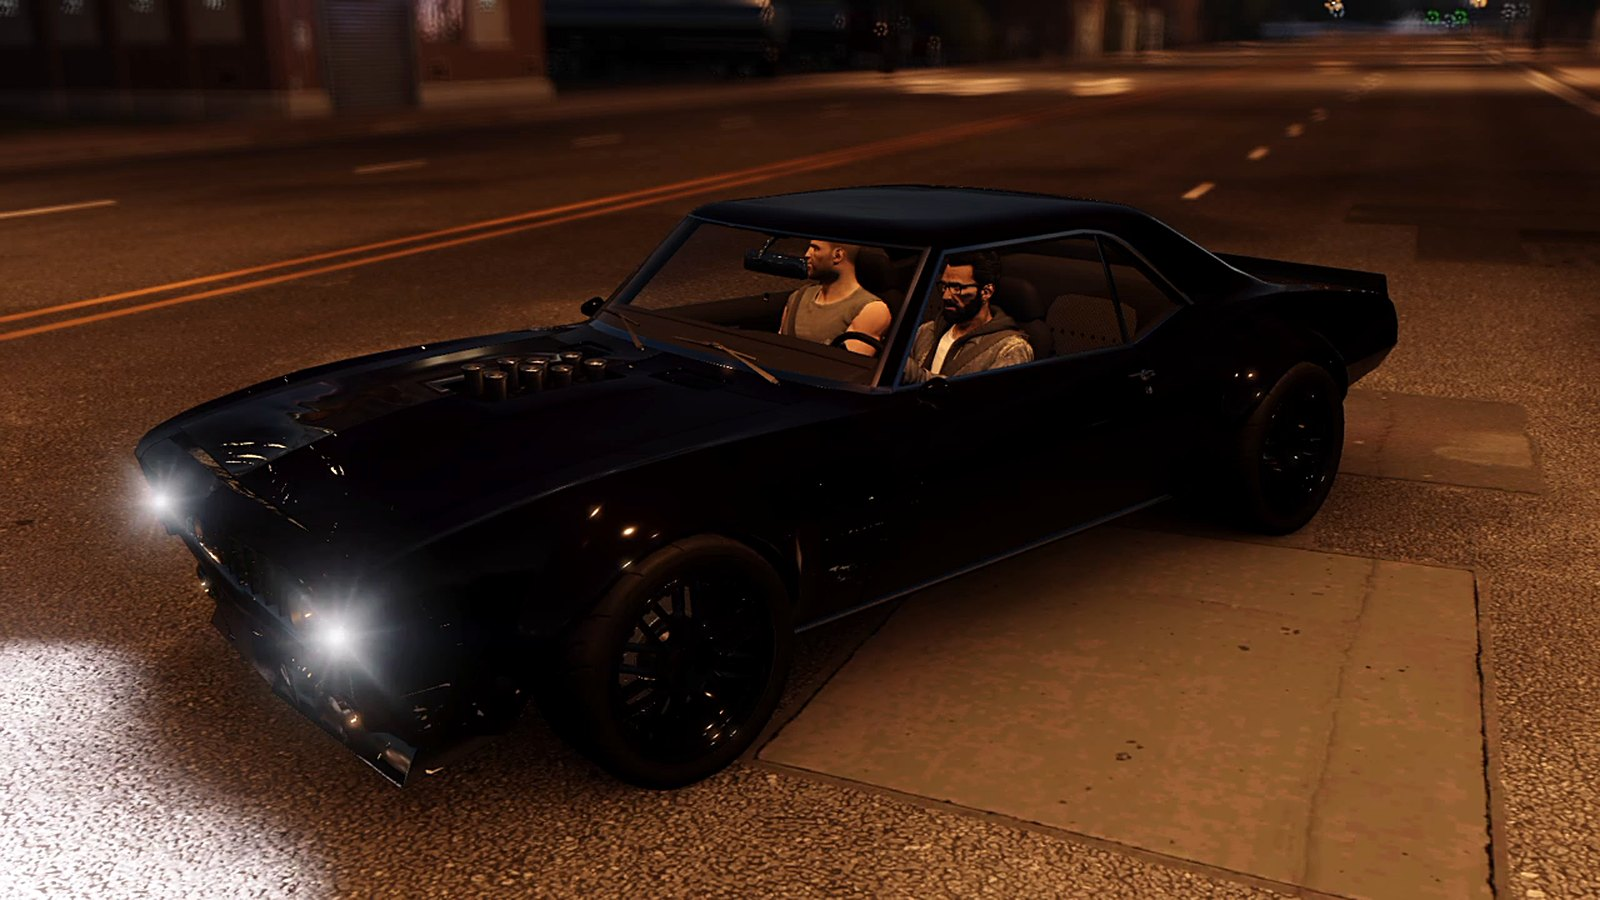
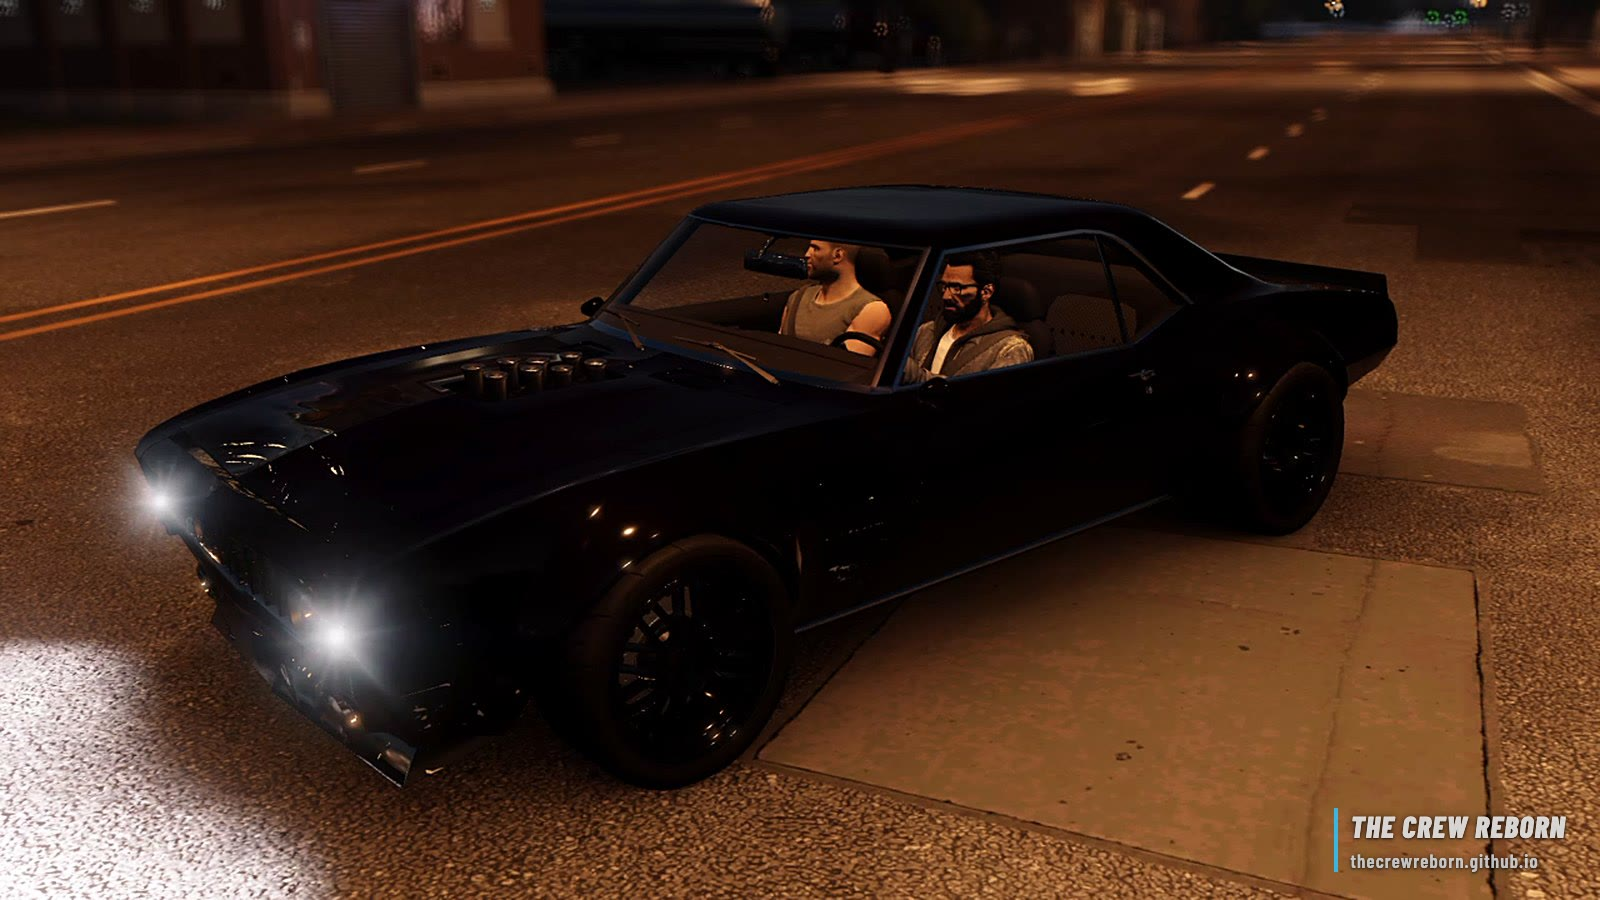
Screenshots: five new shots from the 1.00 prologue, a small site watermark on every shot, arrows, arrow keys and swipe in the enlarged view

Changed region(s): [[0.8125, 0.9022, 1.0, 0.9644]]

diff --git a/assets/content.js b/assets/content.js
@@ -37,17 +37,22 @@ window.CONTENT = {
   ],
   // Screenshots live in assets/shots/ (stills from the project's own PS4 recordings). The first one is shown large.
   screenshots: [
-    { src: "assets/shots/golden-raptor.jpg", en: "Golden hour in the Midwest", de: "Goldene Stunde im Mittleren Westen" },
-    { src: "assets/shots/radar-view.jpg", en: "The view from a satellite radar at night", de: "Nachts der Blick von einem Satellitenradar" },
-    { src: "assets/shots/camaro-st-louis.jpg", en: "A Camaro in St. Louis", de: "Ein Camaro in St. Louis" },
-    { src: "assets/shots/garage-taillights.jpg", en: "Tail lights in a Detroit garage", de: "Rücklichter in einer Garage in Detroit" },
-    { src: "assets/shots/detroit-dusk.jpg", en: "Detroit at dusk", de: "Detroit in der Abenddämmerung" },
-    { src: "assets/shots/night-meet.jpg", en: "A night meet in Detroit", de: "Nächtliches Treffen in Detroit" },
-    { src: "assets/shots/muscle-car-night.jpg", en: "Muscle car under the street lights", de: "Muscle Car unter Straßenlaternen" },
-    { src: "assets/shots/offroad-field.jpg", en: "Off-road across the fields", de: "Offroad über die Felder" },
-    { src: "assets/shots/camaro-garage.jpg", en: "A Camaro SS at the tuner", de: "Ein Camaro SS beim Tuner" },
-    { src: "assets/shots/fields-sunset.jpg", en: "Evening on the outskirts of Detroit", de: "Abendstimmung am Stadtrand von Detroit" },
-    { src: "assets/shots/backstreet.jpg", en: "Back streets of Detroit", de: "In Detroits Seitenstraßen" },
-    { src: "assets/shots/workshop.jpg", en: "In the workshop", de: "In der Werkstatt" },
+    { src: "assets/shots/golden-raptor.jpg?v=2", en: "Golden hour in the Midwest", de: "Goldene Stunde im Mittleren Westen" },
+    { src: "assets/shots/detroit-searchlights.jpg?v=2", en: "Searchlights over Detroit at night", de: "Suchscheinwerfer über Detroit bei Nacht" },
+    { src: "assets/shots/radar-view.jpg?v=2", en: "The view from a satellite radar at night", de: "Nachts der Blick von einem Satellitenradar" },
+    { src: "assets/shots/camaro-st-louis.jpg?v=2", en: "A Camaro in St. Louis", de: "Ein Camaro in St. Louis" },
+    { src: "assets/shots/mustang-gt.jpg?v=2", en: "The Ford Mustang GT from the dealer", de: "Der Ford Mustang GT vom Autohändler" },
+    { src: "assets/shots/garage-taillights.jpg?v=2", en: "Tail lights in a Detroit garage", de: "Rücklichter in einer Garage in Detroit" },
+    { src: "assets/shots/detroit-dusk.jpg?v=2", en: "Detroit at dusk", de: "Detroit in der Abenddämmerung" },
+    { src: "assets/shots/dormer-drills.jpg?v=2", en: "An old factory in Detroit at dusk", de: "Eine alte Fabrik in Detroit in der Abenddämmerung" },
+    { src: "assets/shots/night-meet.jpg?v=2", en: "A night meet in Detroit", de: "Nächtliches Treffen in Detroit" },
+    { src: "assets/shots/muscle-car-night.jpg?v=2", en: "Muscle car under the street lights", de: "Muscle Car unter Straßenlaternen" },
+    { src: "assets/shots/muscle-car-dusk.jpg?v=2", en: "Muscle car at dusk", de: "Muscle Car in der Abenddämmerung" },
+    { src: "assets/shots/offroad-field.jpg?v=2", en: "Off-road across the fields", de: "Offroad über die Felder" },
+    { src: "assets/shots/muscle-car-low.jpg?v=2", en: "Low over the asphalt", de: "Dicht über dem Asphalt" },
+    { src: "assets/shots/camaro-garage.jpg?v=2", en: "A Camaro SS at the tuner", de: "Ein Camaro SS beim Tuner" },
+    { src: "assets/shots/fields-sunset.jpg?v=2", en: "Evening on the outskirts of Detroit", de: "Abendstimmung am Stadtrand von Detroit" },
+    { src: "assets/shots/backstreet.jpg?v=2", en: "Back streets of Detroit", de: "In Detroits Seitenstraßen" },
+    { src: "assets/shots/workshop.jpg?v=2", en: "In the workshop", de: "In der Werkstatt" },
   ],
 };

diff --git a/assets/site.js b/assets/site.js
@@ -347,23 +347,50 @@
     renderDownloads();
   }).catch(() => {});
 
+  // Lightbox: arrows, arrow keys and a swipe step through the screenshots, wrapping around at both ends
   const lb = document.getElementById("lightbox");
-  function openShot(s) {
+  let shot = 0;
+  function showShot(i) {
+    const n = C.screenshots.length;
+    shot = (i + n) % n;
+    const s = C.screenshots[shot];
     document.getElementById("lbImg").src = s.src;
     document.getElementById("lbImg").alt = s[lang] || s.en;
     document.getElementById("lbCap").textContent = s[lang] || s.en;
+    document.getElementById("lbCount").textContent = (shot + 1) + " / " + n;
+    [shot - 1, shot + 1].forEach((k) => { new Image().src = C.screenshots[(k + n) % n].src; });
+  }
+  function openShot(i) {
+    showShot(i);
     lb.hidden = false;
-    document.getElementById("lbClose").focus();
+    document.getElementById("lbNext").focus();
   }
   function closeShot() { lb.hidden = true; }
-  lb.addEventListener("click", (e) => { if (e.target === lb || e.target.id === "lbClose") closeShot(); });
-  document.addEventListener("keydown", (e) => { if (e.key === "Escape" && !lb.hidden) closeShot(); });
+  lb.addEventListener("click", (e) => {
+    if (e.target.id === "lbPrev") showShot(shot - 1);
+    else if (e.target.id === "lbNext") showShot(shot + 1);
+    else if (e.target === lb || e.target.id === "lbClose") closeShot();
+  });
+  document.addEventListener("keydown", (e) => {
+    if (lb.hidden) return;
+    if (e.key === "Escape") closeShot();
+    else if (e.key === "ArrowLeft") showShot(shot - 1);
+    else if (e.key === "ArrowRight") showShot(shot + 1);
+  });
+  let touchX = null;
+  lb.addEventListener("touchstart", (e) => { touchX = e.touches.length === 1 ? e.touches[0].clientX : null; }, { passive: true });
+  lb.addEventListener("touchend", (e) => {
+    if (touchX === null) return;
+    const dx = e.changedTouches[0].clientX - touchX;
+    touchX = null;
+    if (Math.abs(dx) > 50) showShot(dx < 0 ? shot + 1 : shot - 1);
+  });
 
   function renderGallery() {
     const g = document.getElementById("gallery");
     g.replaceChildren();
     document.getElementById("shots").hidden = C.screenshots.length === 0;
-    C.screenshots.forEach((s) => {
+    C.screenshots.forEach((s, i) => {
       const b = document.createElement("button");
       b.type = "button";
       b.className = "shot";
@@ -374,7 +401,7 @@
       const cap = document.createElement("span");
       cap.textContent = s[lang] || s.en || "";
       b.append(img, cap);
-      b.onclick = () => openShot(s);
+      b.onclick = () => openShot(i);
       g.append(b);
     });
   }

diff --git a/assets/style.css b/assets/style.css
@@ -644,11 +644,13 @@ h2::before {
   align-content: center;
   gap: 12px;
   padding: 24px;
+  grid-template-columns: minmax(0, 1fr);
+  justify-items: center;
   background: rgba(4, 7, 12, .92);
   backdrop-filter: blur(8px);
 }
 .lightbox[hidden] { display: none; }
-.lightbox img { max-width: min(1400px, 94vw); max-height: 80vh; display: block; }
+.lightbox img { max-width: min(1400px, 100%); max-height: 80vh; display: block; }
 .lightbox p { margin: 0; font: 700 italic 1.3rem "Barlow Condensed", sans-serif; }
 .lb-close {
   position: absolute;
@@ -660,6 +662,29 @@ h2::before {
   font-size: 2.4rem;
   line-height: 1;
   cursor: pointer;
+}
+
+.lb-nav {
+  position: absolute;
+  top: 50%;
+  transform: translateY(-50%);
+  width: 56px;
+  height: 56px;
+  border: 0;
+  border-radius: 50%;
+  background: rgba(255, 255, 255, .1);
+  color: var(--ice);
+  font-size: 2.6rem;
+  line-height: 1;
+  padding-bottom: 6px;
+  cursor: pointer;
+}
+.lb-nav:hover { background: rgba(255, 255, 255, .22); color: var(--cyan); }
+.lb-prev { left: 18px; }
+.lb-next { right: 18px; }
+.lb-count { color: var(--steel); font-weight: 700; font-size: .95rem; }
+@media (max-width: 700px) {
+  .lb-nav { width: 44px; height: 44px; font-size: 2.1rem; top: auto; bottom: 18px; transform: none; }
 }
 
 /* needs */

diff --git a/index.html b/index.html
@@ -14,7 +14,7 @@
 <meta name="theme-color" content="#070b12">
 <link rel="icon" href="assets/favicon.svg" type="image/svg+xml">
 <link rel="stylesheet" href="assets/fonts.css">
-<link rel="stylesheet" href="assets/style.css?v=31">
+<link rel="stylesheet" href="assets/style.css?v=32">
 </head>
 <body>
 
@@ -397,12 +397,15 @@
 
 <div class="lightbox" id="lightbox" hidden>
   <button type="button" class="lb-close" id="lbClose" aria-label="Close">&times;</button>
+  <button type="button" class="lb-nav lb-prev" id="lbPrev" aria-label="Previous">&#8249;</button>
   <img id="lbImg" alt="">
+  <button type="button" class="lb-nav lb-next" id="lbNext" aria-label="Next">&#8250;</button>
   <p id="lbCap"></p>
+  <span class="lb-count" id="lbCount"></span>
 </div>
 
 <script data-goatcounter="https://knutwurst.goatcounter.com/count" async src="//gc.zgo.at/count.js"></script>
-<script src="assets/content.js?v=21"></script>
-<script src="assets/site.js?v=50"></script>
+<script src="assets/content.js?v=22"></script>
+<script src="assets/site.js?v=51"></script>
 </body>
 </html>
